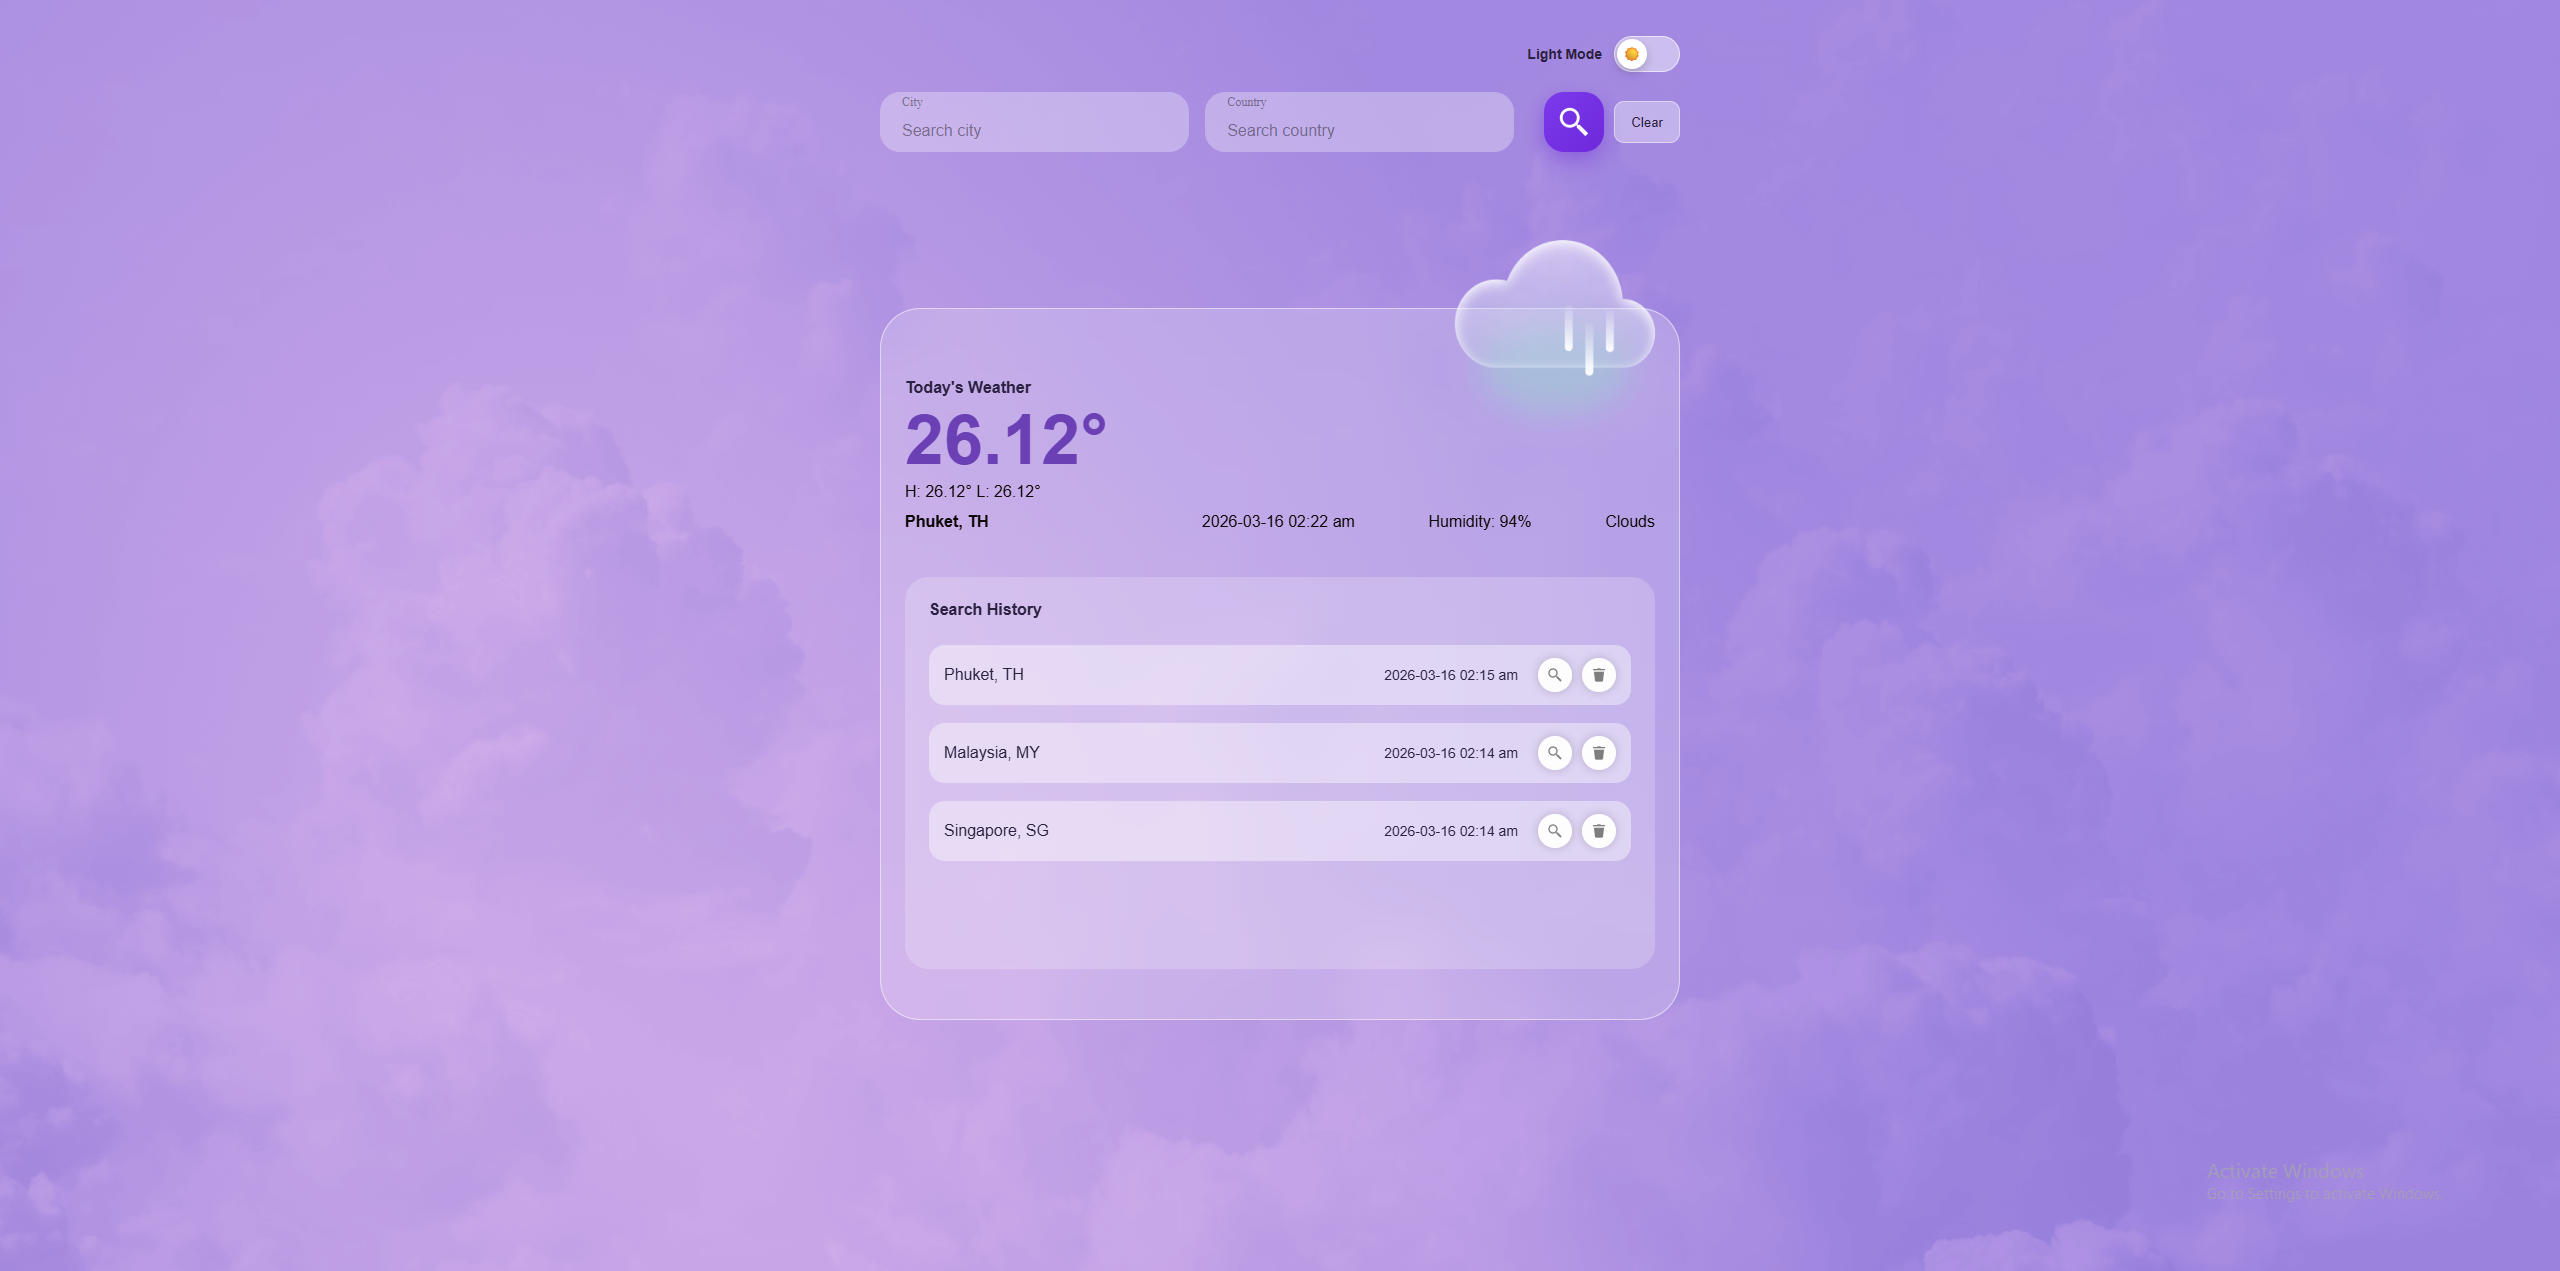
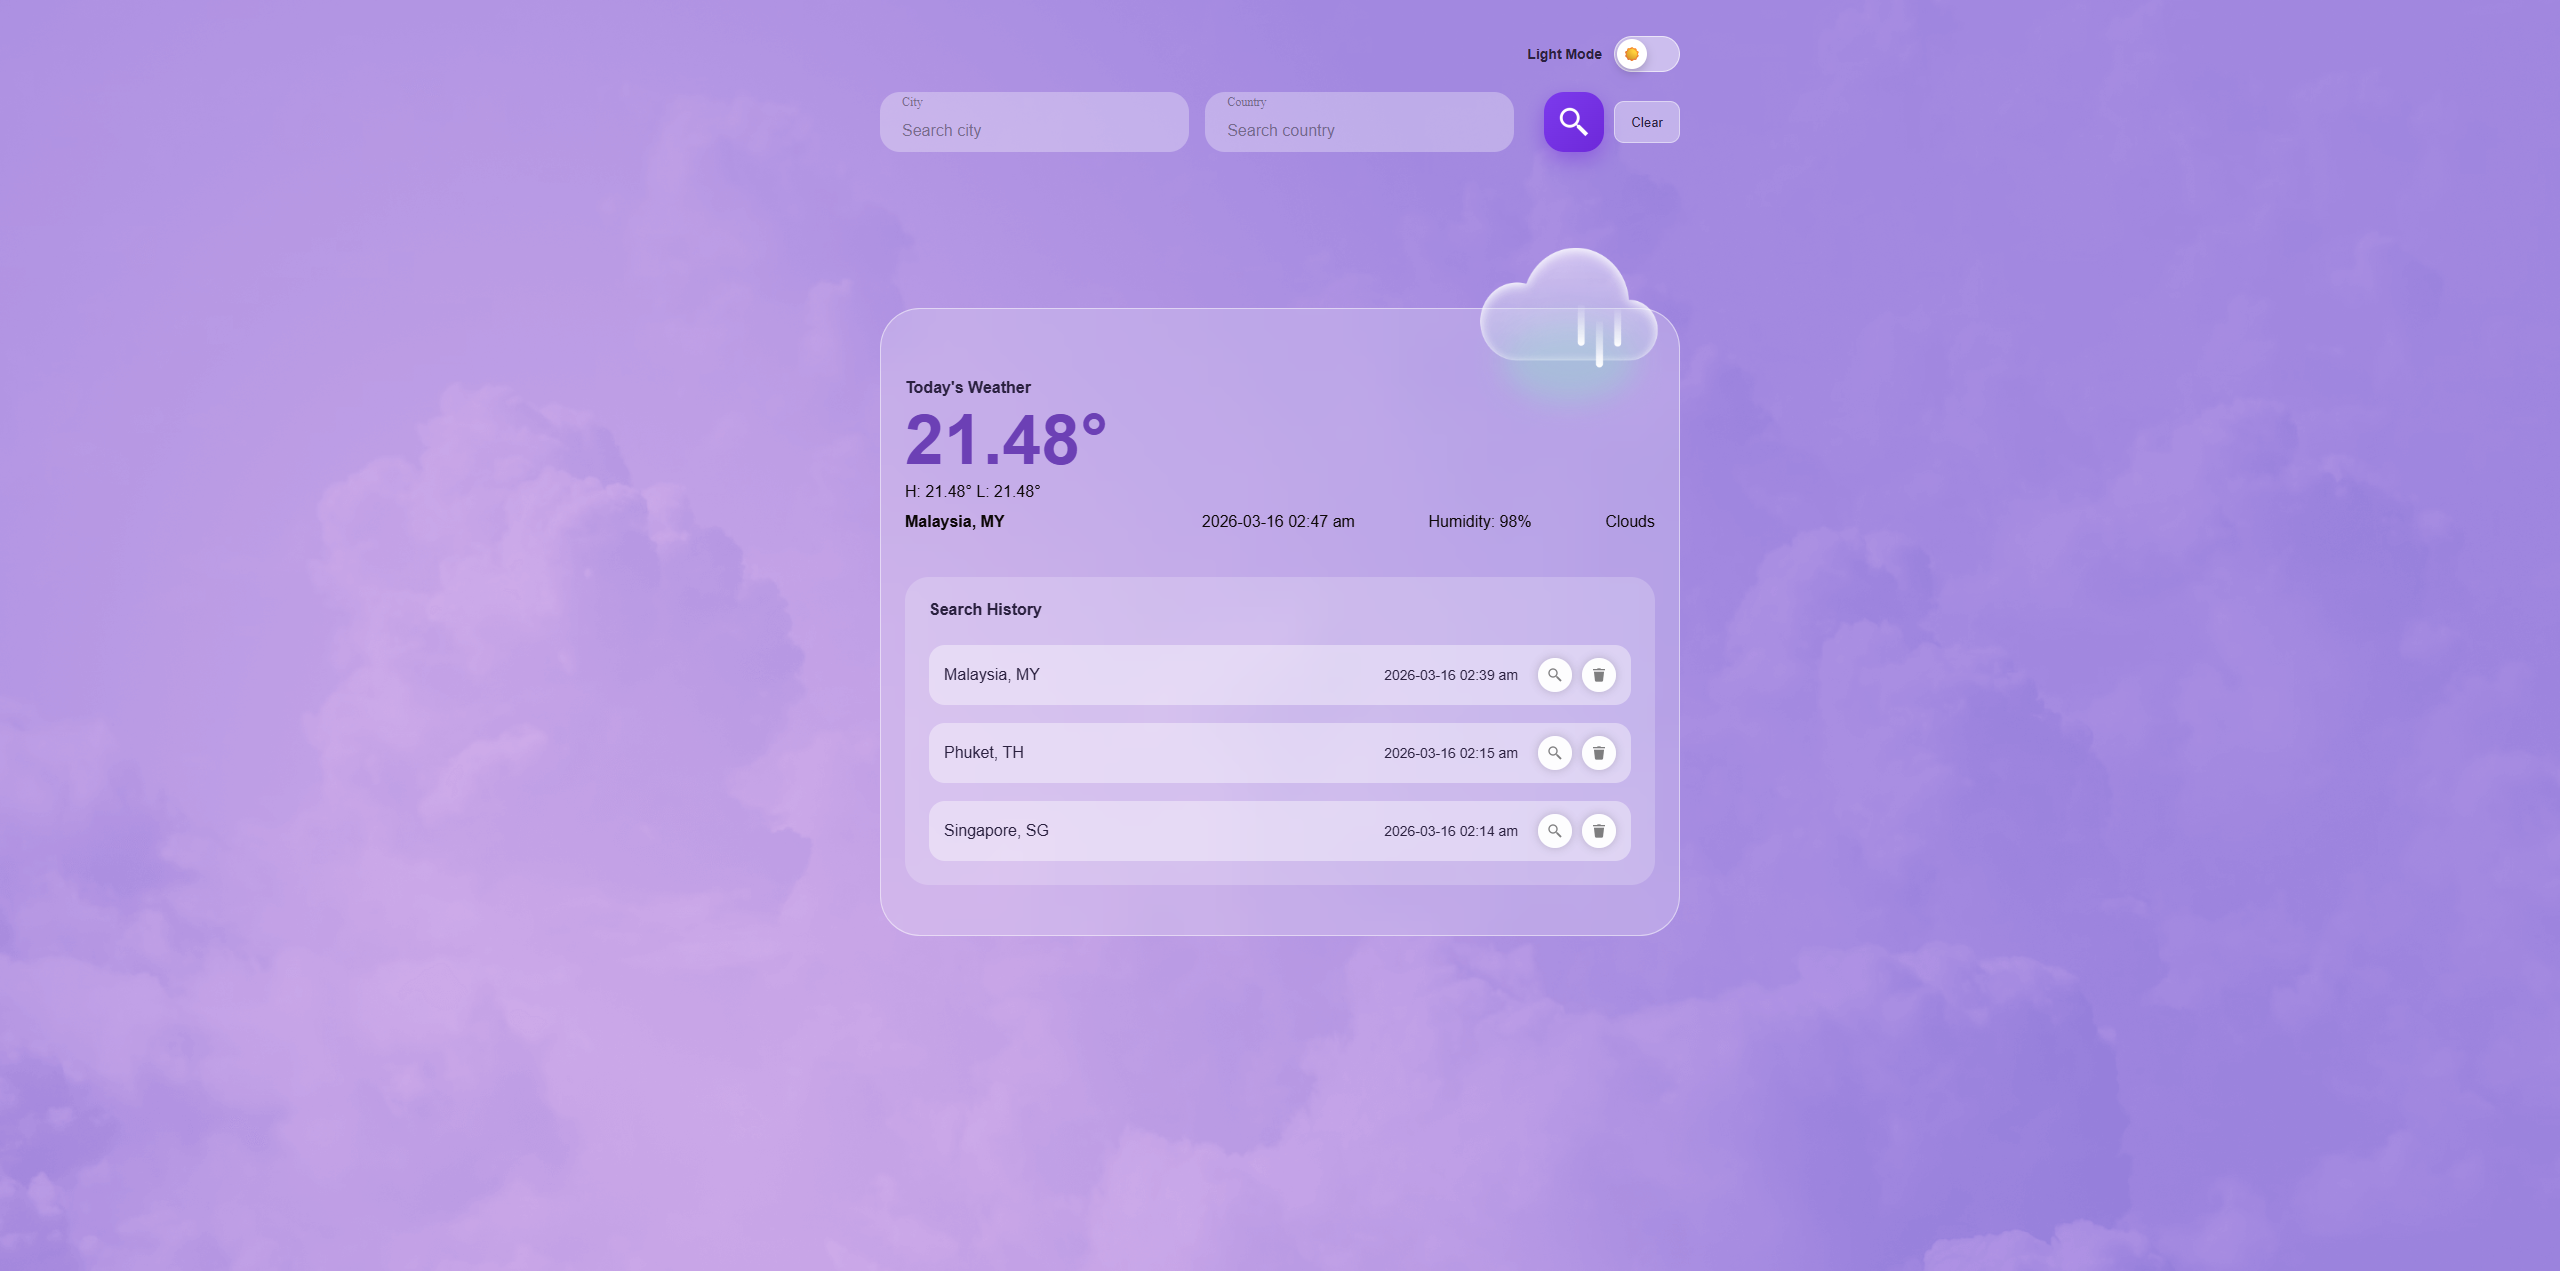
feat: udpate readme

diff --git a/src/Pages/WeatherPage/token.module.less b/src/Pages/WeatherPage/token.module.less
@@ -10,6 +10,7 @@
   --color-text-primary: rgba(43, 33, 64, 1);
   --color-text-secondary: rgb(14, 8, 8);
   --color-temperature-primary: rgba(108, 64, 181, 1);
+  --color-backdrop-filter: none;
 }
 
 .weatherPageDark {
@@ -24,4 +25,5 @@
   --color-text-primary: rgba(241, 245, 249, 0.95);
   --color-text-secondary: rgba(203, 213, 225, 0.9);
   --color-temperature-primary: rgba(255, 255, 255, 1);
+  --color-backdrop-filter: blur(1px);
 }

diff --git a/src/Component/SearchHistory/index.module.less b/src/Component/SearchHistory/index.module.less
@@ -5,6 +5,7 @@
   border-radius: 24px;
   font-family: 'Noto Sans TC', sans-serif;
   color: var(--color-text-primary, #2b2140);
+  backdrop-filter: var(--color-backdrop-filter);
 }
 
 .searchHistoryWrapper {
@@ -24,7 +25,6 @@
   display: flex;
   flex-direction: column;
   gap: 18px;
-  min-height: 300px;
 }
 
 .searchHistoryItem {

diff --git a/README.md b/README.md
@@ -2,11 +2,11 @@
 
 ## Screenshots
 
-![alt text](image.png)
-
 ![alt text](image-1.png)
 
 ![alt text](image-2.png)
+
+![alt text](image-4.png)
 
 ![alt text](image-3.png)
 
